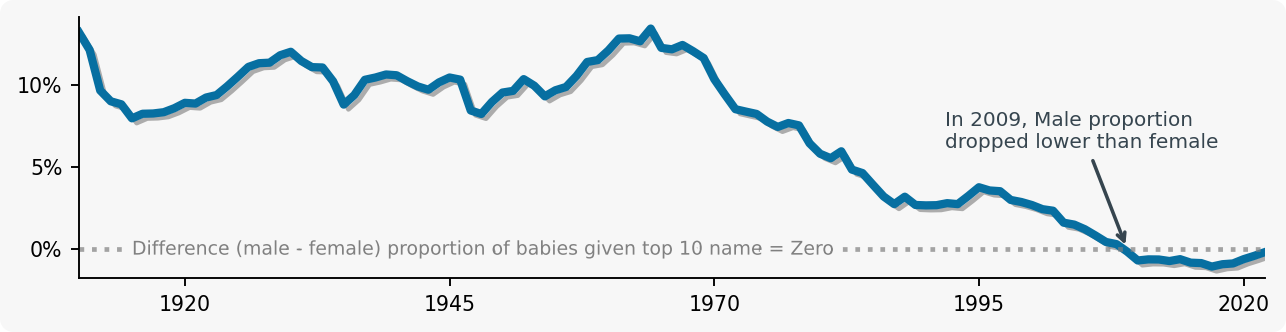
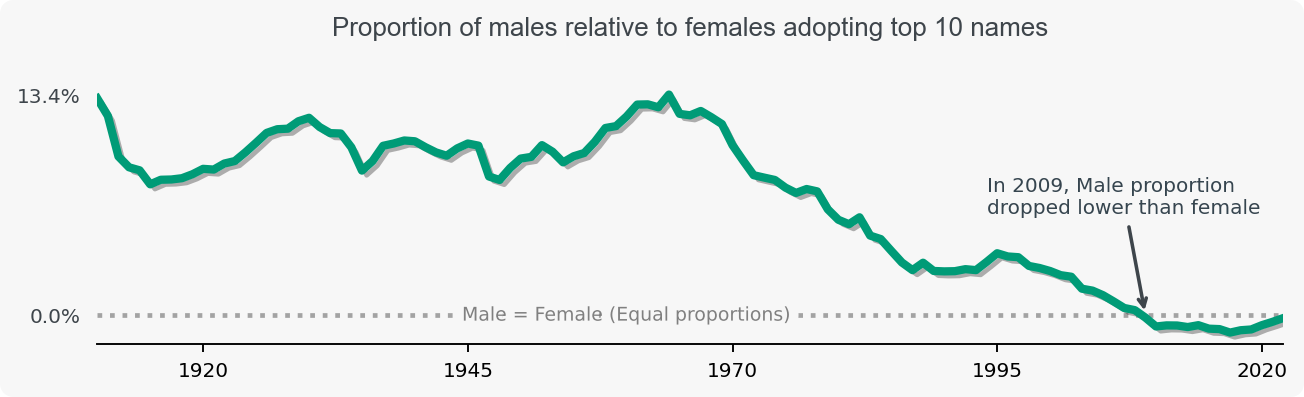
change the added plot

Changed region(s): [[0.0, 0.0301, 0.9953, 0.9639], [0.0311, 0.4819, 0.0622, 0.5422]]

diff --git a/_posts/2023-05-22-Demo.md b/_posts/2023-05-22-Demo.md
@@ -286,7 +286,7 @@ To break down the previous plot further, this visualization is structured into r
 To quantitatively measure the discrepancy in name adoption between genders, a line plot representing the proportion of top 10 names contributing to total names each year is used. This visualization depicts two lines, one representing the proportion of males and the other representing the proportion of females using the top 10 names each year. And the temporal convergence between the two lines is clearly visible.
 
 ![Power-Law](top10_prop.png)
-to better visualize the difference in proportions (of top 10 names usage) between males and females over the years, the overall trend can be excluded to show proportion of male top 10 names relative to females:
+to better visualize the difference in proportions (of top 10 names usage) between males and females over the years, the overall trend can be excluded to show proportion of male top 10 names relative to females (male - Female):
 ![Power-Law](diff.png)_figure 11_
 
 ### Number of Unique Baby Names Each Year
